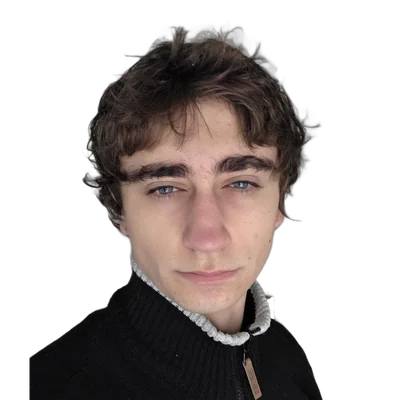
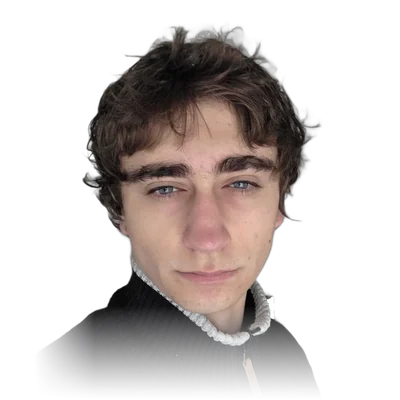
Porträt: weicher Übergang unten und an den Seiten
Claude-Session: https://claude.ai/code/session_01SvgP8qj9BsmCc7PnzpUm9g

Changed region(s): [[0.06, 0.78, 0.81, 1.0]]

diff --git a/sw.js b/sw.js
@@ -4,7 +4,7 @@
  * immediately when online; without internet the last seen version still works.
  * Only this site's own files are cached – nothing from anywhere else.
  */
-const CACHE = 'bk-cv-2026-11-27f';
+const CACHE = 'bk-cv-2026-11-27g';
 const CORE = [
     './', './index.html', './404.html', './css/style.css', './js/main.js', './manifest.webmanifest',
     './img/portrait-720.webp', './img/portrait-400.webp', './img/avatar-240.webp',
